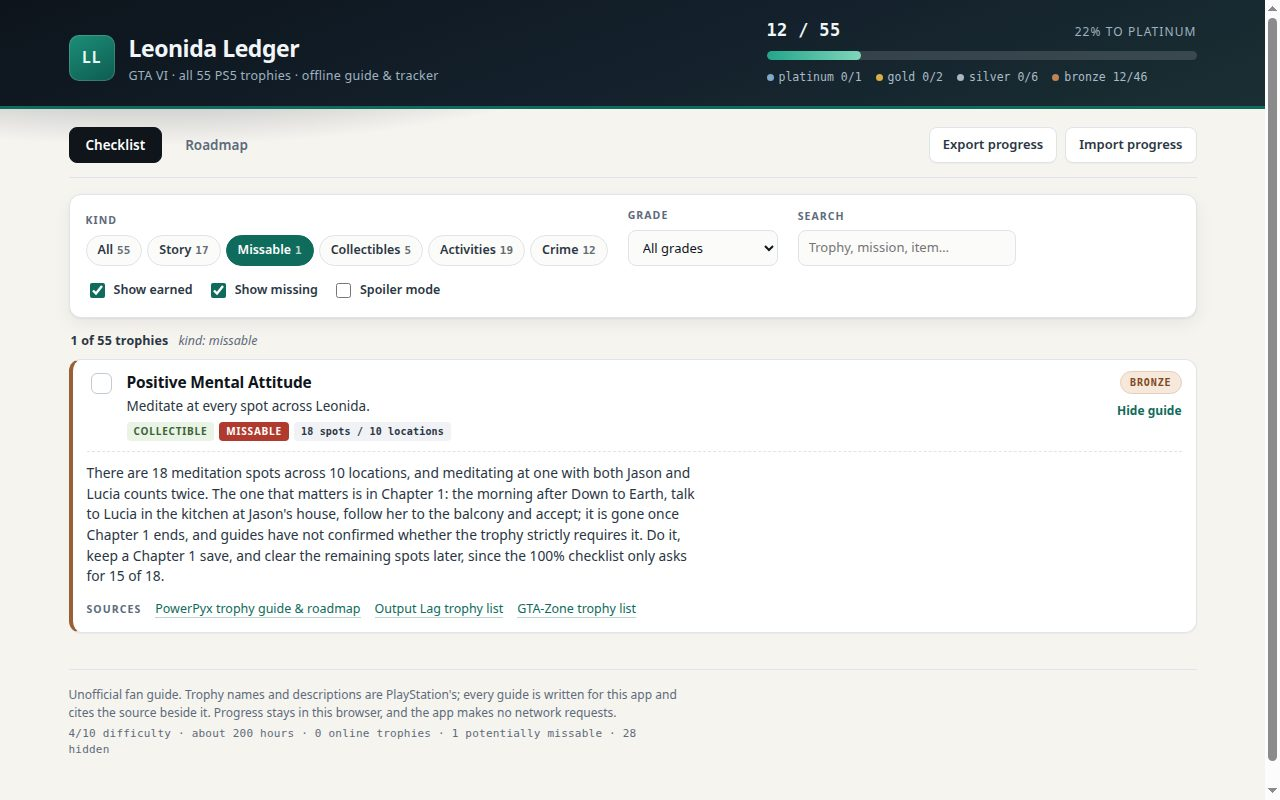
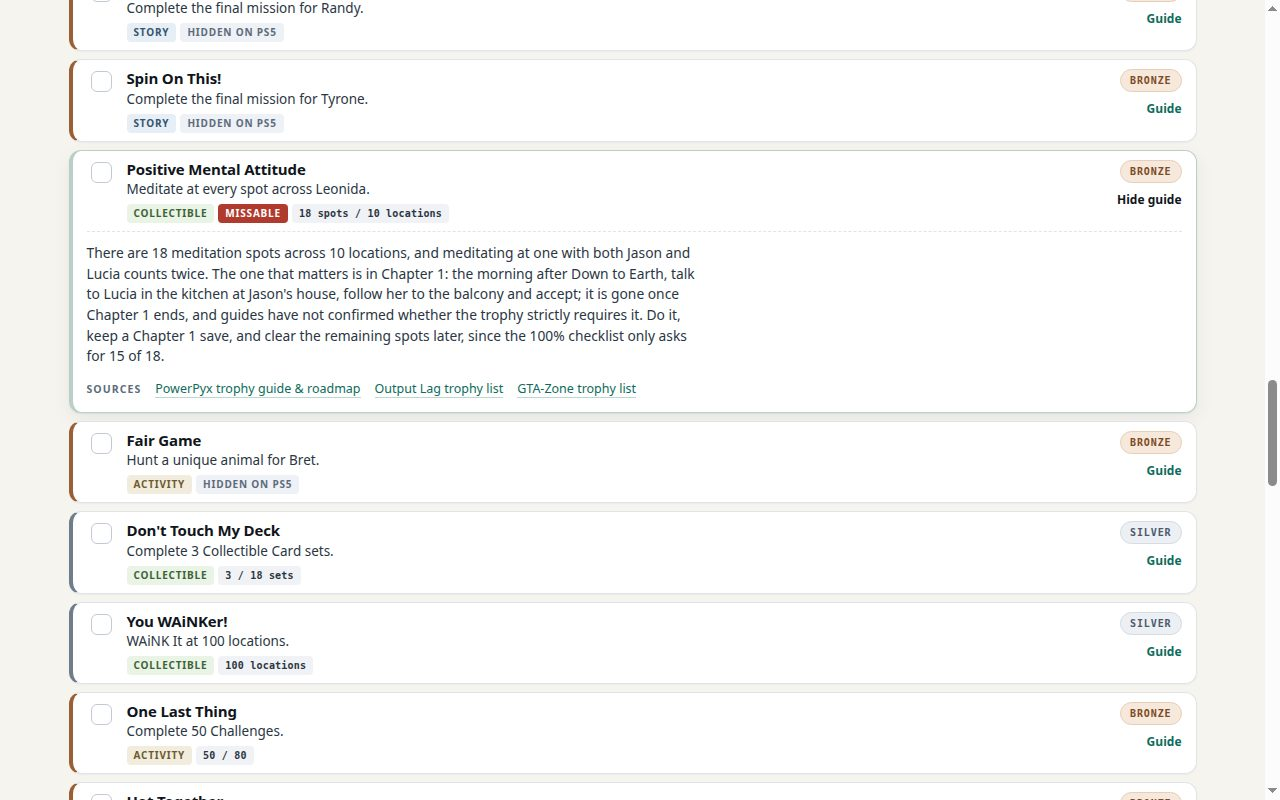
Polish: composable kind filters, reset control, denser cover layout
Kind chips now combine (e.g. Story + Missable), a reset-filters link appears
whenever a filter is active, and an open guide is highlighted. Tightened the
masthead and trophy rows so the cover framing shows more graded rows with the
guide and its sources in view. Re-took all four screenshots.

diff --git a/app/style.css b/app/style.css
@@ -60,7 +60,7 @@ button, input, select { font: inherit; color: inherit; }
 .masthead-inner {
   max-width: 1180px;
   margin: 0 auto;
-  padding: 18px 26px 20px;
+  padding: 12px 26px 14px;
   display: flex;
   align-items: flex-end;
   justify-content: space-between;
@@ -70,8 +70,8 @@ button, input, select { font: inherit; color: inherit; }
 .brand { display: flex; align-items: center; gap: 14px; }
 
 .brand-mark {
-  width: 46px;
-  height: 46px;
+  width: 40px;
+  height: 40px;
   flex: none;
   display: grid;
   place-items: center;
@@ -85,7 +85,7 @@ button, input, select { font: inherit; color: inherit; }
   box-shadow: inset 0 0 0 1px rgba(255, 255, 255, .16);
 }
 
-.brand-text h1 { font-size: 23px; font-weight: 700; letter-spacing: -.02em; }
+.brand-text h1 { font-size: 21px; font-weight: 700; letter-spacing: -.02em; }
 .brand-text p { margin: 2px 0 0; font-size: 12.5px; color: #9fb2c0; letter-spacing: .02em; }
 
 .tally { width: 430px; max-width: 46vw; }
@@ -139,7 +139,7 @@ button, input, select { font: inherit; color: inherit; }
 .shell {
   max-width: 1180px;
   margin: 0 auto;
-  padding: 18px 26px 60px;
+  padding: 14px 26px 60px;
 }
 
 .topline {
@@ -147,9 +147,9 @@ button, input, select { font: inherit; color: inherit; }
   align-items: center;
   justify-content: space-between;
   gap: 18px;
-  padding-bottom: 14px;
+  padding-bottom: 10px;
   border-bottom: 1px solid var(--line);
-  margin-bottom: 16px;
+  margin-bottom: 10px;
 }
 
 .viewtabs { display: flex; gap: 6px; }
@@ -200,11 +200,11 @@ button, input, select { font: inherit; color: inherit; }
   display: flex;
   flex-wrap: wrap;
   align-items: flex-end;
-  gap: 14px 20px;
+  gap: 10px 18px;
   background: var(--card);
   border: 1px solid var(--line);
   border-radius: var(--radius);
-  padding: 13px 16px;
+  padding: 10px 14px;
   box-shadow: var(--shadow);
 }
 
@@ -279,7 +279,7 @@ input[type="search"] { min-width: 210px; }
   display: flex;
   align-items: baseline;
   gap: 10px;
-  margin: 14px 2px 8px;
+  margin: 9px 2px 7px;
   font-size: 12.5px;
   color: var(--muted);
 }
@@ -287,6 +287,19 @@ input[type="search"] { min-width: 210px; }
 #result-count { font-weight: 700; color: var(--ink-soft); letter-spacing: .01em; }
 
 .filter-note { font-style: italic; }
+
+.reset-filters {
+  border: 0;
+  background: none;
+  padding: 0;
+  color: var(--accent);
+  font-size: 12px;
+  font-weight: 700;
+  cursor: pointer;
+  text-decoration: underline;
+}
+
+.reset-filters[hidden] { display: none; }
 
 /* ---------- trophy list ---------- */
 
@@ -311,12 +324,15 @@ input[type="search"] { min-width: 210px; }
 .trophy.is-earned { background: #fbfcfa; }
 .trophy.is-earned .trophy-name { color: var(--muted); }
 
+.trophy.is-open { border-color: #b9cfc8; box-shadow: var(--shadow); }
+.trophy.is-open .disclose { color: var(--ink); }
+
 .trophy-head {
   display: grid;
   grid-template-columns: 30px 1fr auto;
   align-items: start;
   gap: 10px;
-  padding: 11px 14px 10px;
+  padding: 9px 14px 8px;
 }
 
 .check {
@@ -351,11 +367,11 @@ input[type="search"] { min-width: 210px; }
 
 .trophy-name-row { display: flex; align-items: baseline; flex-wrap: wrap; gap: 8px; }
 
-.trophy-name { font-size: 15.5px; font-weight: 700; letter-spacing: -.01em; }
+.trophy-name { font-size: 15px; font-weight: 700; letter-spacing: -.01em; line-height: 1.3; }
 
-.trophy-desc { margin: 2px 0 0; font-size: 13.5px; color: var(--ink-soft); }
+.trophy-desc { margin: 1px 0 0; font-size: 13.5px; color: var(--ink-soft); line-height: 1.4; }
 
-.trophy-tags { display: flex; flex-wrap: wrap; gap: 5px; margin-top: 6px; }
+.trophy-tags { display: flex; flex-wrap: wrap; gap: 4px; margin-top: 5px; align-items: center; }
 
 .tag {
   font-size: 10px;

diff --git a/app/filters.js b/app/filters.js
@@ -11,7 +11,7 @@ const KIND_FILTERS = [
 ];
 
 let state = {
-  kind: 'all',
+  kinds: new Set(['all']),
   grade: 'all',
   search: '',
   showEarned: true,
@@ -27,8 +27,39 @@ export function kindFilters() {
   return KIND_FILTERS;
 }
 
-export function setKind(kind) {
-  state = { ...state, kind };
+export function activeKinds() {
+  return state.kinds;
+}
+
+// Kind chips compose: picking Story then Missable shows both groups, and All clears the rest.
+export function toggleKind(kind) {
+  const next = new Set(state.kinds);
+  if (kind === 'all') {
+    state = { ...state, kinds: new Set(['all']) };
+    return;
+  }
+  next.delete('all');
+  if (next.has(kind)) next.delete(kind);
+  else next.add(kind);
+  state = { ...state, kinds: next.size ? next : new Set(['all']) };
+}
+
+export function setSingleKind(kind) {
+  state = { ...state, kinds: kind === 'all' ? new Set(['all']) : new Set([kind]) };
+}
+
+export function clearFilters() {
+  state = { ...state, kinds: new Set(['all']), grade: 'all', search: '', showEarned: true, showMissing: true };
+}
+
+export function hasActiveFilters() {
+  return (
+    !state.kinds.has('all') ||
+    state.grade !== 'all' ||
+    Boolean(state.search) ||
+    !state.showEarned ||
+    !state.showMissing
+  );
 }
 
 export function setGrade(grade) {
@@ -57,10 +88,13 @@ export function countForKind(kind, trophies) {
   return trophies.filter((t) => t.kind === kind).length;
 }
 
-function matchesKind(trophy, kind) {
-  if (kind === 'all') return true;
-  if (kind === 'missable') return trophy.missable === true;
-  return trophy.kind === kind;
+function matchesKind(trophy, kinds) {
+  if (kinds.has('all')) return true;
+  for (const kind of kinds) {
+    if (kind === 'missable' && trophy.missable === true) return true;
+    if (kind === trophy.kind) return true;
+  }
+  return false;
 }
 
 function matchesGrade(trophy, grade) {
@@ -85,7 +119,7 @@ function matchesEarnedToggle(trophy) {
 export function visibleTrophies(trophies) {
   return trophies.filter(
     (trophy) =>
-      matchesKind(trophy, state.kind) &&
+      matchesKind(trophy, state.kinds) &&
       matchesGrade(trophy, state.grade) &&
       matchesSearch(trophy, state.search) &&
       matchesEarnedToggle(trophy),
@@ -99,7 +133,7 @@ export function isSpoilerMasked(trophy) {
 
 export function activeFilterNote() {
   const notes = [];
-  if (state.kind !== 'all') notes.push(`kind: ${state.kind}`);
+  if (!state.kinds.has('all')) notes.push(`kind: ${[...state.kinds].join(' + ')}`);
   if (state.grade !== 'all') notes.push(`grade: ${state.grade}`);
   if (state.search) notes.push(`search: “${state.search}”`);
   if (!state.showEarned) notes.push('earned hidden');

diff --git a/app/app.js b/app/app.js
@@ -3,8 +3,12 @@ import { initTracker, isEarned, exportProgress, importProgress } from './tracker
 import {
   kindFilters,
   countForKind,
+  activeKinds,
+  toggleKind,
+  setSingleKind,
+  clearFilters,
+  hasActiveFilters,
   getFilterState,
-  setKind,
   setGrade,
   setSearch,
   setShowEarned,
@@ -36,6 +40,7 @@ const els = {
   platinumTips: document.getElementById('platinum-tips'),
   exportButton: document.getElementById('export-button'),
   importInput: document.getElementById('import-input'),
+  resetFilters: document.getElementById('reset-filters'),
   checklistView: document.getElementById('checklist-view'),
   roadmapView: document.getElementById('roadmap-view'),
 };
@@ -72,20 +77,20 @@ function isTicked(trophy) {
 }
 
 function renderKindChips() {
-  const current = getFilterState().kind;
+  const selected = activeKinds();
   els.kindFilters.replaceChildren(
     ...kindFilters().map((filter) => {
       const button = document.createElement('button');
       button.type = 'button';
       button.className = 'chip';
-      button.setAttribute('aria-pressed', String(filter.id === current));
+      button.setAttribute('aria-pressed', String(selected.has(filter.id)));
       button.append(document.createTextNode(filter.label));
       const count = document.createElement('span');
       count.className = 'chip-count';
       count.textContent = String(countForKind(filter.id, data.trophies));
       button.append(count);
       button.addEventListener('click', () => {
-        setKind(filter.id);
+        toggleKind(filter.id);
         render();
       });
       return button;
@@ -101,6 +106,7 @@ function render() {
   renderTrophyList(visible, els.list, render);
   els.resultCount.textContent = `${visible.length} of ${data.trophies.length} trophies`;
   els.filterNote.textContent = activeFilterNote();
+  els.resetFilters.hidden = !hasActiveFilters();
   els.empty.hidden = visible.length > 0;
 
   renderRoadmap({
@@ -112,7 +118,7 @@ function render() {
     onPickTrophy: (trophy) => {
       showView('checklist');
       openGuide(trophy.id);
-      setKind('all');
+      setSingleKind('all');
       setSearch('');
       els.search.value = '';
       render();
@@ -162,6 +168,15 @@ function wireControls() {
   });
   els.spoiler.addEventListener('change', () => {
     setSpoilerMode(els.spoiler.checked);
+    render();
+  });
+
+  els.resetFilters.addEventListener('click', () => {
+    clearFilters();
+    els.gradeFilter.value = 'all';
+    els.search.value = '';
+    els.showEarned.checked = true;
+    els.showMissing.checked = true;
     render();
   });
 

diff --git a/app/index.html b/app/index.html
@@ -73,13 +73,13 @@
           <input type="checkbox" id="show-missing" checked>
           <span>Show missing</span>
         </label>
-        <label class="switch spoiler-switch">
+        <label class="switch spoiler-switch" title="Mask story trophy names and descriptions until they are earned">
           <input type="checkbox" id="spoiler-toggle">
           <span>Spoiler mode</span>
         </label>
       </div>
     </div>
-    <p class="result-line"><span id="result-count">55 trophies</span><span id="filter-note" class="filter-note"></span></p>
+    <p class="result-line"><span id="result-count">55 trophies</span><span id="filter-note" class="filter-note"></span><button type="button" id="reset-filters" class="reset-filters" hidden>Reset filters</button></p>
     <div id="trophy-list" class="trophy-list"></div>
     <p id="empty-state" class="empty-state" hidden>No trophy matches these filters. Clear the search or switch a filter off.</p>
   </section>

diff --git a/app/trophy-list.js b/app/trophy-list.js
@@ -110,6 +110,7 @@ function buildCard(trophy, rerender) {
   side.append(grade);
 
   const isOpen = openGuides.has(trophy.id) && !masked;
+  if (isOpen) card.classList.add('is-open');
   const toggle = document.createElement('button');
   toggle.type = 'button';
   toggle.className = 'disclose';
